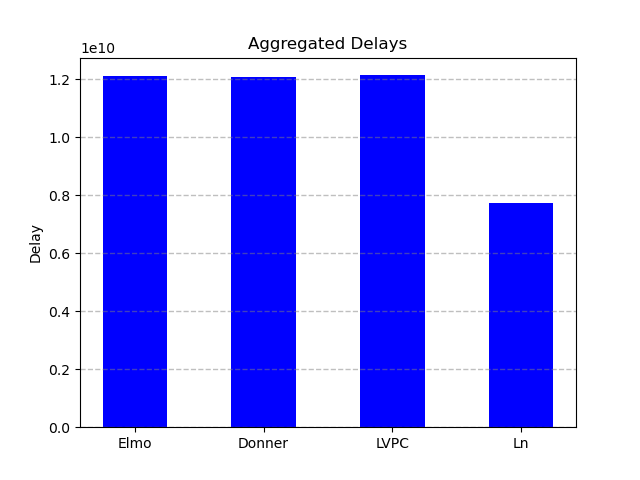
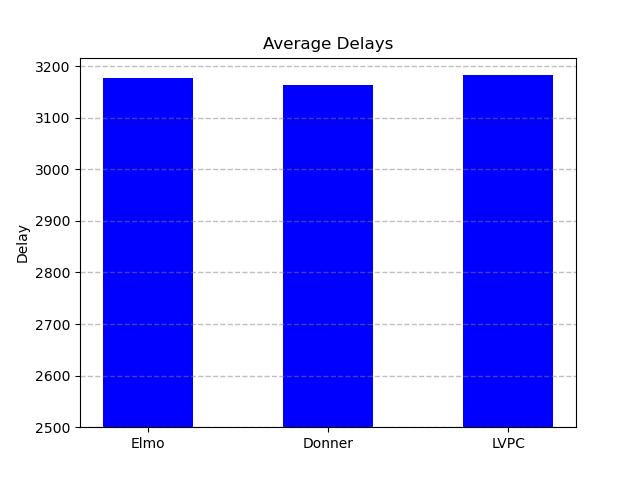
remove ln for graphs and use cutoff

diff --git a/simulation/make_graphs.py b/simulation/make_graphs.py
@@ -8,8 +8,10 @@ from simulation import ROUNDS_RANDOM_PAYMENTS
 
 for distribution in tqdm(["power_law", "preferred_receiver", "uniform"]):
 
+
     # power law
     num_successful_payments_elmo = 0
+    num_payments_elmo = 0
     num_failures_elmo = 0
     sum_fees_elmo = 0
     sum_delays_elmo = 0
@@ -19,6 +21,7 @@ for distribution in tqdm(["power_law", "preferred_receiver", "uniform"]):
     num_pay_elmo = 0
 
     num_successful_payments_donner = 0
+    num_payments_donner = 0
     num_failures_donner = 0
     sum_fees_donner = 0
     sum_delays_donner = 0
@@ -28,6 +31,7 @@ for distribution in tqdm(["power_law", "preferred_receiver", "uniform"]):
     num_pay_donner = 0
 
     num_successful_payments_lvpc = 0
+    num_payments_lvpc = 0
     num_failures_lvpc = 0
     sum_fees_lvpc = 0
     sum_delays_lvpc = 0
@@ -37,6 +41,7 @@ for distribution in tqdm(["power_law", "preferred_receiver", "uniform"]):
     num_pay_lvpc = 0
 
     num_successful_payments_ln = 0
+    num_payments_ln = 0
     num_failures_ln = 0
     sum_fees_ln = 0
     sum_delays_ln = 0
@@ -48,6 +53,8 @@ for distribution in tqdm(["power_law", "preferred_receiver", "uniform"]):
 
         with open("results_" + distribution + "Elmo_" + "{}".format(i) + ".pickle", 'rb') as pickled_file_elmo:
             payments_elmo = pickle.load(pickled_file_elmo)
+        
+        num_payments_elmo += len(payments_elmo)
         num_successful_payments_elmo_round = 0
         sum_fees_elmo_round = 0
         sum_delays_elmo_round = 0
@@ -86,6 +93,7 @@ for distribution in tqdm(["power_law", "preferred_receiver", "uniform"]):
 
         with open("results_" + distribution + "Donner_" + "{}".format(i) + ".pickle", 'rb') as pickled_file_donner:
             payments_donner = pickle.load(pickled_file_donner)
+        num_payments_donner += len(payments_donner)
         num_successful_payments_donner_round = 0
         sum_fees_donner_round = 0
         sum_delays_donner_round = 0
@@ -123,6 +131,7 @@ for distribution in tqdm(["power_law", "preferred_receiver", "uniform"]):
 
         with open("results_" + distribution + "LVPC_" + "{}".format(i) + ".pickle", 'rb') as pickled_file_lvpc:
             payments_lvpc = pickle.load(pickled_file_lvpc)
+        num_payments_lvpc += len(payments_lvpc)
         num_successful_payments_lvpc_round = 0
         sum_fees_lvpc_round = 0
         sum_delays_lvpc_round = 0
@@ -160,6 +169,7 @@ for distribution in tqdm(["power_law", "preferred_receiver", "uniform"]):
 
         with open("results_" + distribution + "ln_" + "{}".format(i) + ".pickle", 'rb') as pickled_file_ln:
             payments_ln = pickle.load(pickled_file_ln)
+        num_payments_ln += len(payments_ln)
         num_successful_payments_ln_round = 0
         sum_fees_ln_round = 0
         sum_delays_ln_round = 0
@@ -219,30 +229,43 @@ for distribution in tqdm(["power_law", "preferred_receiver", "uniform"]):
     print("Delays Ln: ", sum_delays_ln)
 
     color = ['blue']
-    x_coords_cost = [0, 1, 2, 3]
-    labels_cost = ['Elmo', 'Donner', 'LVPC', 'Ln']
 
+    x_coords_cost = [0, 1, 2]
+    labels_cost = ['Elmo', 'Donner', 'LVPC']
+
+    assert num_payments_elmo == num_payments_donner == num_payments_lvpc
+
+    cutoff_fee = 10**8
+    num_payments = num_payments_lvpc
     cost_bar = [
-        sum_fees_elmo, sum_fees_donner,
-        sum_fees_lvpc, sum_fees_ln
+        sum_fees_elmo / num_payments - cutoff_fee, sum_fees_donner / num_payments - cutoff_fee,
+        sum_fees_lvpc / num_payments - cutoff_fee
     ]
 
-    plt.bar(x_coords_cost, cost_bar, tick_label = labels_cost, width=0.5, color=color)
+    plt.bar(
+        x_coords_cost, cost_bar, tick_label = labels_cost,
+        width=0.5, color=color, bottom=cutoff_fee
+    )
     plt.ylabel("Cost")
-    plt.title("Aggregated Fees")
+    plt.title("Average Fees")
     plt.grid(color='grey', linestyle='--', linewidth=1, axis='y', alpha=0.25)
     plt.show()
 
-    x_coords_delay = [0, 1, 2, 3]
-    labels_delay = ['Elmo', 'Donner', 'LVPC', 'Ln']
+    x_coords_delay = [0, 1, 2]
+    labels_delay = ['Elmo', 'Donner', 'LVPC']
 
+    cutoff_delay = 2500
     delay_bar = [
-        sum_delays_elmo, sum_delays_donner,
-        sum_delays_lvpc, sum_delays_ln
+        sum_delays_elmo / num_payments - cutoff_delay,
+        sum_delays_donner / num_payments - cutoff_delay,
+        sum_delays_lvpc / num_payments - cutoff_delay
     ]
 
-    plt.bar(x_coords_delay, delay_bar, tick_label = labels_delay, width=0.5, color=color)
+    plt.bar(
+        x_coords_delay, delay_bar, tick_label = labels_delay,
+        width=0.5, color=color, bottom=cutoff_delay
+    )
     plt.ylabel("Delay")
-    plt.title("Aggregated Delays")
+    plt.title("Average Delays")
     plt.grid(color='grey', linestyle='--', linewidth=1, axis='y', alpha=0.5)
     plt.show()
